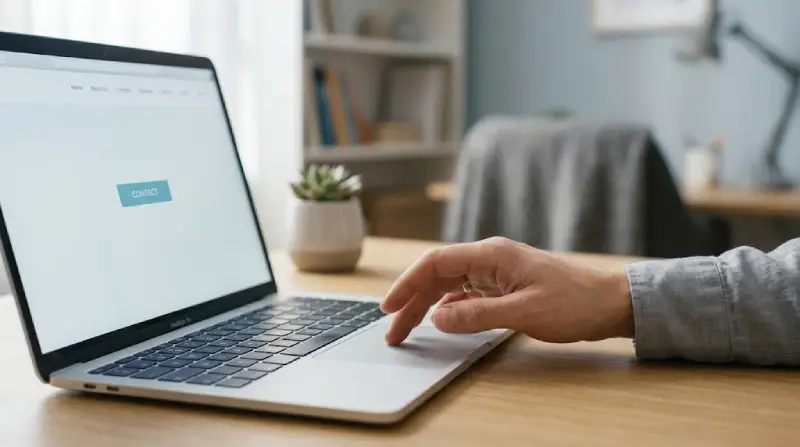
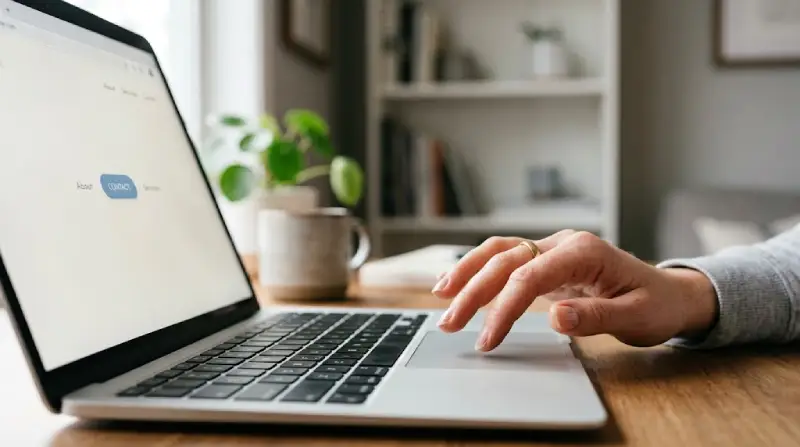
Add files via upload

diff --git a/contact-button-not-enough.html b/contact-button-not-enough.html
@@ -51,8 +51,8 @@
         "url": "https://evidastudio.com/logo.webp"
       }
     },
-    "datePublished": "2026-09-30T09:00:00+03:00",
-    "dateModified": "2026-09-30T09:00:00+03:00"
+    "datePublished": "2026-11-18T09:00:00+02:00",
+    "dateModified": "2026-11-18T09:00:00+02:00"
   }
   </script>
 
@@ -130,7 +130,7 @@
 
         <ul>
           <li><strong>A response window.</strong> "I typically reply within one business day" removes the fear of shouting into silence.</li>
-          <li><strong>What happens immediately after.</strong> A short call to understand their situation, a form to fill in advance, a set of available times. Name the very next step, not the entire process.</li>
+          <li><strong>What happens immediately after.</strong> A short written reply to understand their situation, a form to fill in advance, a set of available times. Name the very next step, not the entire process.</li>
           <li><strong>What it costs them right now.</strong> If the first conversation is free, say so. If there's a form to complete, say how long it takes. Removing uncertainty about effort is often what tips the decision.</li>
         </ul>
 
